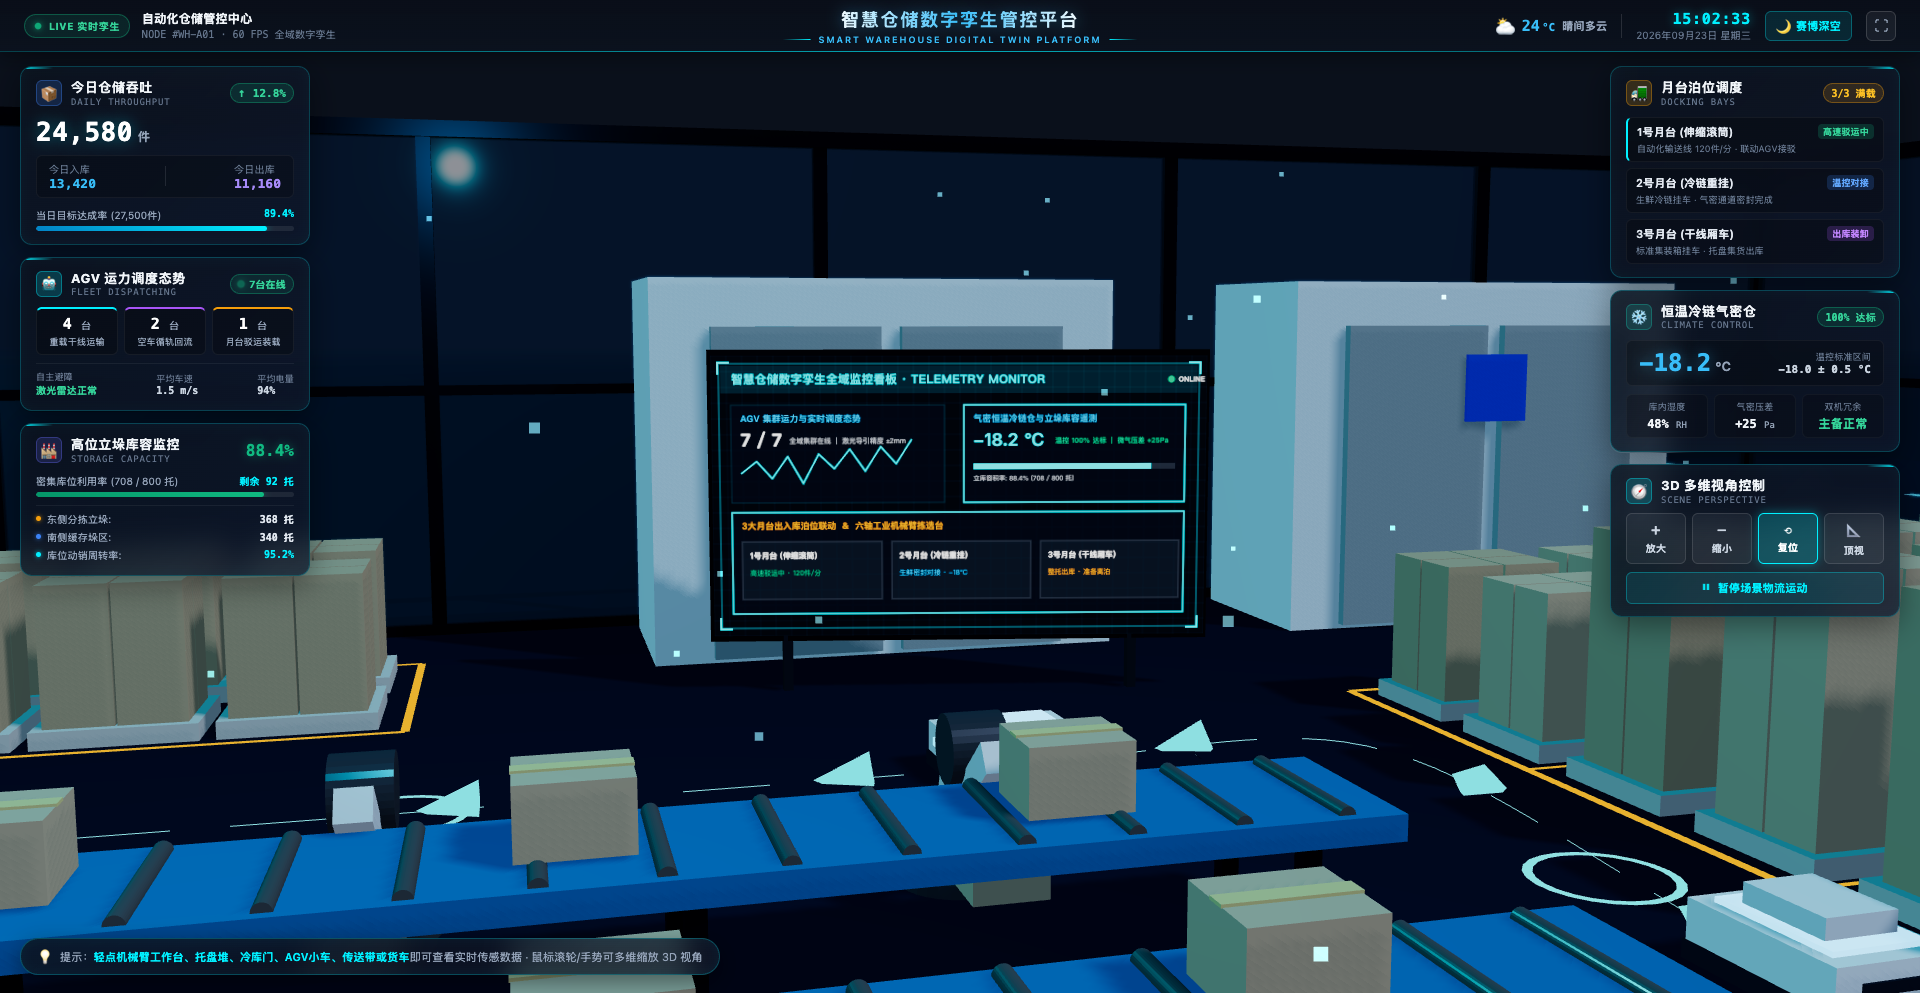
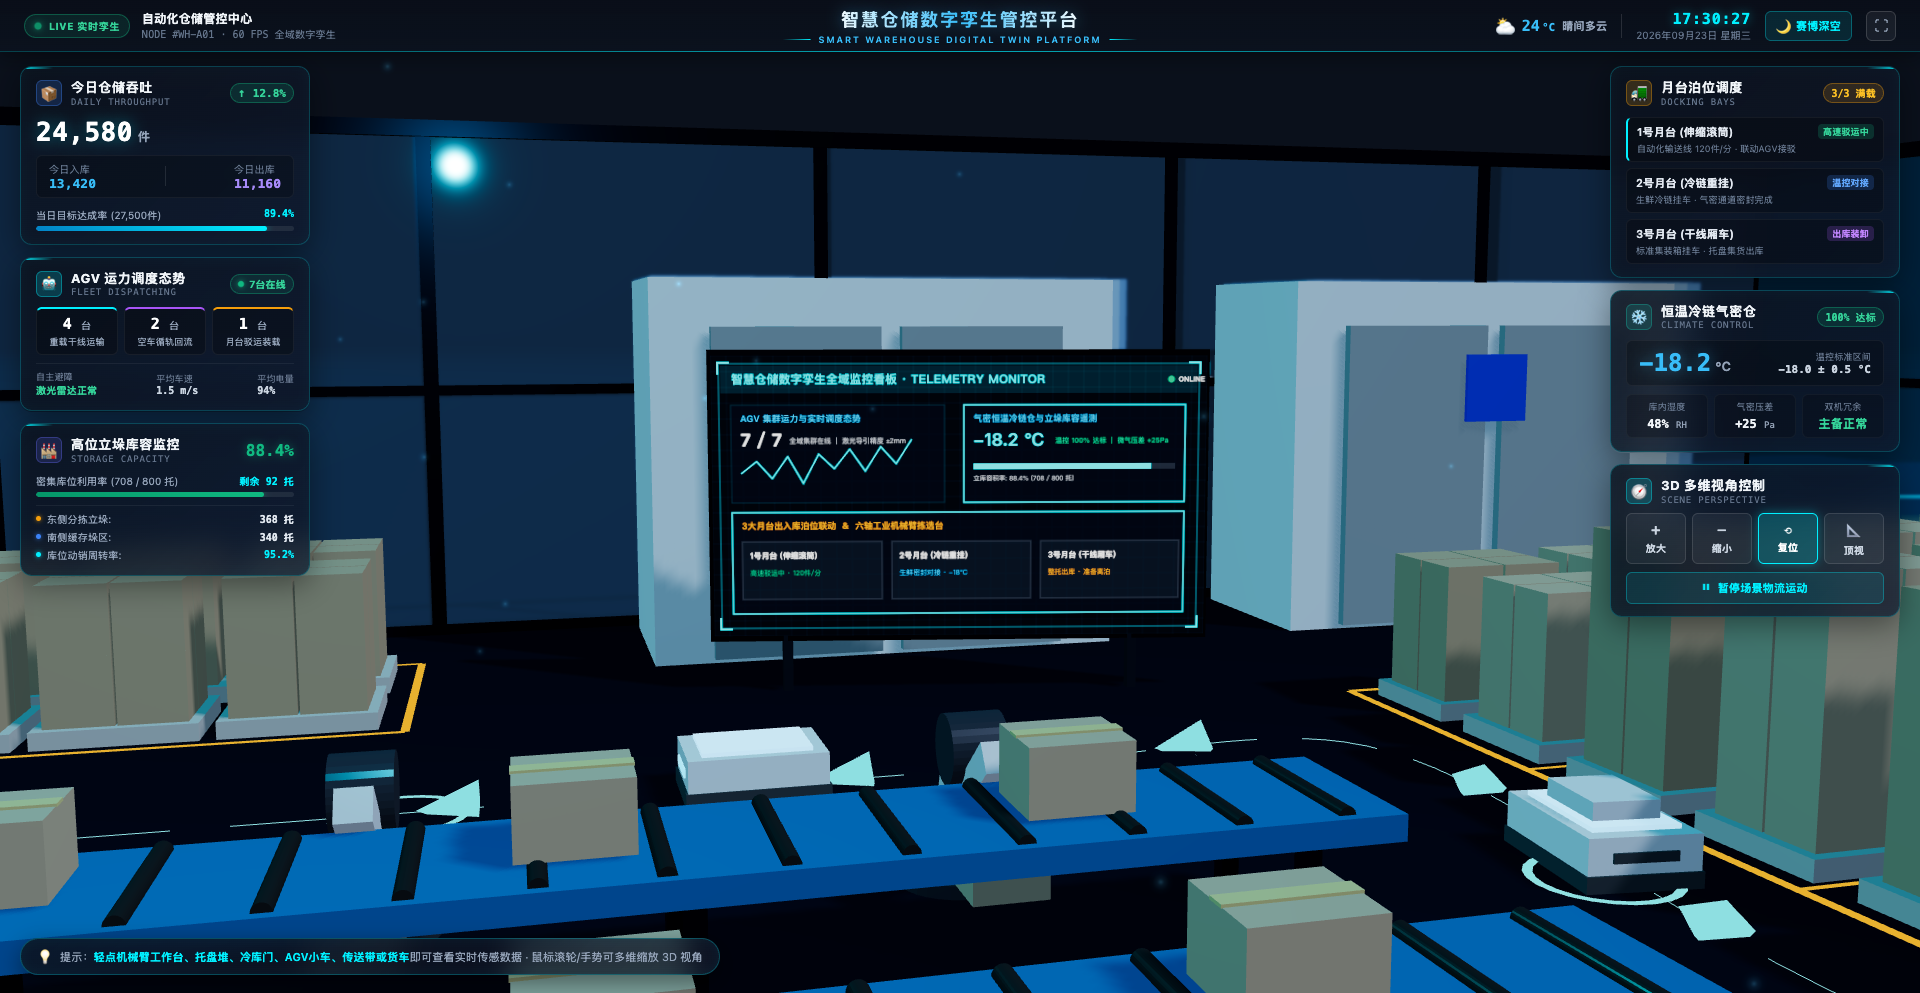
docs: refresh all showcase gallery images with latest high-detail models, lighting, and camera push-in popups

diff --git a/src/core/WarehouseScene.ts b/src/core/WarehouseScene.ts
@@ -1074,6 +1074,21 @@ export class WarehouseScene {
     );
   }
 
+  public selectEntityByKey(key: EntityKey) {
+    const targetObj = this.interactiveMeshes.find((m) => m.userData.entityKey === key);
+    if (targetObj) {
+      const box = new THREE.Box3().setFromObject(targetObj);
+      const center = new THREE.Vector3();
+      box.getCenter(center);
+      const anchorPos: [number, number, number] = [center.x, box.max.y + 0.35, center.z];
+      this.setTrackedAnchor(anchorPos, targetObj);
+      this.focusOnEntity(key, anchorPos, false);
+      if (this.onPickCallback) {
+        this.onPickCallback(key, anchorPos, false);
+      }
+    }
+  }
+
   public toggleAnimation(): boolean {
     this.isAnimationPaused = !this.isAnimationPaused;
     return this.isAnimationPaused;

diff --git a/src/App.vue b/src/App.vue
@@ -192,7 +192,9 @@ onMounted(async () => {
         sceneInstance.focusOnTruckCockpit();
       }
       if (window.location.search.includes('preview=popup')) {
-        (window as any).__showEntityPopup?.('pc_workstation');
+        const urlParams = new URLSearchParams(window.location.search);
+        const target = (urlParams.get('target') as EntityKey) || 'pc_workstation';
+        sceneInstance.selectEntityByKey(target);
       }
     }
   } catch (err: any) {
